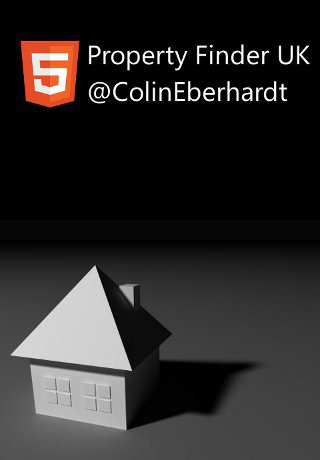
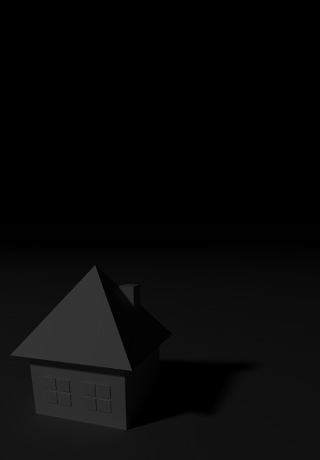
prettified the themeing for android

diff --git a/Titanium/Resources/view/PropertySearchView.js b/Titanium/Resources/view/PropertySearchView.js
@@ -4,11 +4,9 @@ var ko = require("knockout");
 module.exports = function(viewModel) {
 
 	var window = Titanium.UI.createWindow({
-		backgroundColor : 'white'
 	});
 
 	var view = Titanium.UI.createView({
-		backgroundColor : 'white',
 		layout : 'vertical',
 		top : '6dip',
 		right : '6dip',
@@ -18,7 +16,6 @@ module.exports = function(viewModel) {
 
 	var instructions = Titanium.UI.createLabel({
 		text : "Use the form below to search for houses to buy:",
-		color : '#2F3E46',
 		textAlign : 'left',
 		font : {
 			fontSize : '16dip'
@@ -29,7 +26,6 @@ module.exports = function(viewModel) {
 
 	var textField = Ti.UI.createTextField({
 		borderStyle : Ti.UI.INPUT_BORDERSTYLE_ROUNDED,
-		color : '#336699',
 		width : Titanium.UI.FILL
 	});
 	var searchDisplayStringSubscription = viewModel.searchDisplayString.subscribe(function(newValue) {
@@ -41,7 +37,6 @@ module.exports = function(viewModel) {
 	view.add(textField);
 
 	var buttons = Titanium.UI.createView({
-		backgroundColor : 'white',
 		layout : 'horizontal',
 		height : Titanium.UI.SIZE
 	});
@@ -72,7 +67,6 @@ module.exports = function(viewModel) {
 
 	var userMessage = Titanium.UI.createLabel({
 		text : "",
-		color : '#2F3E46',
 		textAlign : 'left',
 		font : {
 			fontSize : '16dip'
@@ -85,14 +79,12 @@ module.exports = function(viewModel) {
 	view.add(userMessage);
 
 	var recentSearchesView = Titanium.UI.createView({
-		backgroundColor : 'white',
 		layout : 'vertical',
 		height : Titanium.UI.SIZE
 	});
 
 	var recentSearchesLabel = Titanium.UI.createLabel({
 		text : "Recent Searches",
-		color : '#2F3E46',
 		textAlign : 'left',
 		font : {
 			fontSize : '19dip',
@@ -103,7 +95,6 @@ module.exports = function(viewModel) {
 	recentSearchesView.add(recentSearchesLabel);
 
 	var tableView = Titanium.UI.createTableView({
-		backgroundColor : 'white',
 		width : Titanium.UI.FILL,
 		height : Titanium.UI.SIZE
 	});
@@ -116,12 +107,11 @@ module.exports = function(viewModel) {
 		tableView.setData(_.map(items, function(item) {
 			// create first row
 			var row = Ti.UI.createTableViewRow();
-			row.height = '82dip';
+			row.height = '41dip';
 			// tip the abstraction off that the rows have the same layout
 			row.className = 'myrows';
 			row.add(Titanium.UI.createLabel({
 				text : item.displayString,
-				color : '#2F3E46',
 				textAlign : 'left',
 				font : {
 					fontSize : '16dip',
@@ -131,7 +121,6 @@ module.exports = function(viewModel) {
 			}));
 			row.add(Titanium.UI.createLabel({
 				text : item.totalResults,
-				color : '#2F3E46',
 				textAlign : 'right',
 				font : {
 					fontSize : '16dip',
@@ -160,14 +149,12 @@ module.exports = function(viewModel) {
 	toggleRecentSearches();
 
 	var locationsView = Titanium.UI.createView({
-		backgroundColor : 'white',
 		layout : 'vertical',
 		height : Titanium.UI.SIZE
 	});
 
 	var locationsLabel = Titanium.UI.createLabel({
 		text : "Please select a location below:",
-		color : '#2F3E46',
 		textAlign : 'left',
 		font : {
 			fontSize : '19dip',
@@ -178,7 +165,6 @@ module.exports = function(viewModel) {
 	locationsView.add(locationsLabel);
 
 	var tableView = Titanium.UI.createTableView({
-		backgroundColor : 'white',
 		width : Titanium.UI.FILL,
 		height : Titanium.UI.SIZE
 	});
@@ -191,12 +177,11 @@ module.exports = function(viewModel) {
 		tableView.setData(_.map(items, function(item) {
 			// create first row
 			var row = Ti.UI.createTableViewRow();
-			row.height = '82dip';
+			row.height = '41dip';
 			// tip the abstraction off that the rows have the same layout
 			row.className = 'myrows';
 			row.add(Titanium.UI.createLabel({
 				text : item.displayString,
-				color : '#2F3E46',
 				textAlign : 'left',
 				font : {
 					fontSize : '16dip',

diff --git a/Titanium/Resources/view/PropertyView.js b/Titanium/Resources/view/PropertyView.js
@@ -4,11 +4,9 @@ var ko = require("knockout");
 module.exports = function(viewModel) {
 
 	var window = Titanium.UI.createWindow({
-		backgroundColor : 'white'
 	});
 
 	var view = Titanium.UI.createView({
-		backgroundColor : 'white',
 		layout : 'vertical',
 		top : '6dip',
 		right : '6dip',
@@ -18,7 +16,6 @@ module.exports = function(viewModel) {
 
 	var price = Titanium.UI.createLabel({
 		text : '£ ' + viewModel.price,
-		color : '#2F3E46',
 		textAlign : 'left',
 		font : {
 			fontSize : '19dip',
@@ -30,7 +27,6 @@ module.exports = function(viewModel) {
 
 	var title = Titanium.UI.createLabel({
 		text : viewModel.title,
-		color : '#2F3E46',
 		textAlign : 'left',
 		font : {
 			fontSize : '16dip'
@@ -48,7 +44,6 @@ module.exports = function(viewModel) {
 
 	var description = Titanium.UI.createLabel({
 		text : viewModel.bedrooms + ' bed ' + viewModel.propertyType,
-		color : '#2F3E46',
 		textAlign : 'left',
 		font : {
 			fontSize : '16dip'

diff --git a/Titanium/Resources/app.js b/Titanium/Resources/app.js
@@ -28,6 +28,11 @@ function init() {
 		var backStackLength = application.viewModelBackStack().length, view;
 
 		if (previousBackStackLength < backStackLength) {
+			// hide the previous view
+			var previousView = viewStack[viewStack.length - 1];
+			if (previousView) {
+				previousView.window.hide();
+			}
 			// forward navigation
 			var upperCamelCase = viewModel.template[0].toUpperCase() + viewModel.template.substr(1);
 			view = new (require("view/" + upperCamelCase))(viewModel);
@@ -49,6 +54,11 @@ function init() {
 			view = viewStack.pop();
 			view.window.close();
 			view.dispose();
+			// show the previous view
+			var previousView = viewStack[viewStack.length - 1];
+			if (previousView) {
+				previousView.window.show();
+			}
 		}
 
 		previousBackStackLength = backStackLength;

diff --git a/Titanium/Resources/view/FavouritesView.js b/Titanium/Resources/view/FavouritesView.js
@@ -10,7 +10,6 @@ module.exports = function(viewModel) {
 	// create table view (
 	//
 	tableView = Titanium.UI.createTableView({
-		backgroundColor : 'white'
 	});
 	tableView.addEventListener('click', function(e) {
 		viewModel.properties()[e.index].select();
@@ -36,7 +35,6 @@ module.exports = function(viewModel) {
 			}));
 			row.add(Titanium.UI.createLabel({
 				text : '£ ' + property.price,
-				color : '#2F3E46',
 				textAlign : 'left',
 				font : {
 					fontSize : '16dip',
@@ -47,7 +45,6 @@ module.exports = function(viewModel) {
 			}));
 			row.add(Titanium.UI.createLabel({
 				text : property.title + ' ' + property.bedrooms + ' bed ' + property.propertyType,
-				color : '#2F3E46',
 				textAlign : 'left',
 				font : {
 					fontSize : '12dip',

diff --git a/Titanium/Resources/view/SearchResultsView.js b/Titanium/Resources/view/SearchResultsView.js
@@ -16,7 +16,6 @@ function createRow(imageUrl, title, description) {
 	}));
 	row.add(Titanium.UI.createLabel({
 		text : title,
-		color : '#2F3E46',
 		textAlign : 'left',
 		font : {
 			fontSize : '16dip',
@@ -27,7 +26,6 @@ function createRow(imageUrl, title, description) {
 	}));
 	row.add(Titanium.UI.createLabel({
 		text : description,
-		color : '#2F3E46',
 		textAlign : 'left',
 		font : {
 			fontSize : '12dip',
@@ -43,7 +41,6 @@ module.exports = function(viewModel) {
 
 	var window = Ti.UI.createWindow();
 	var tableView = Titanium.UI.createTableView({
-		backgroundColor : 'white'
 	});
 	tableView.addEventListener('click', function(e) {
 		if (e.index === viewModel.properties().length) {
